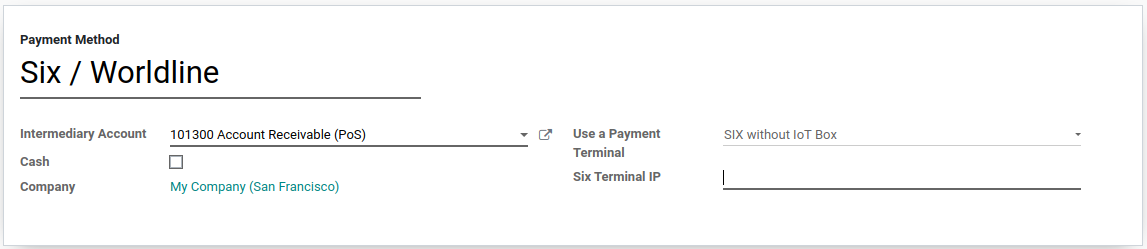
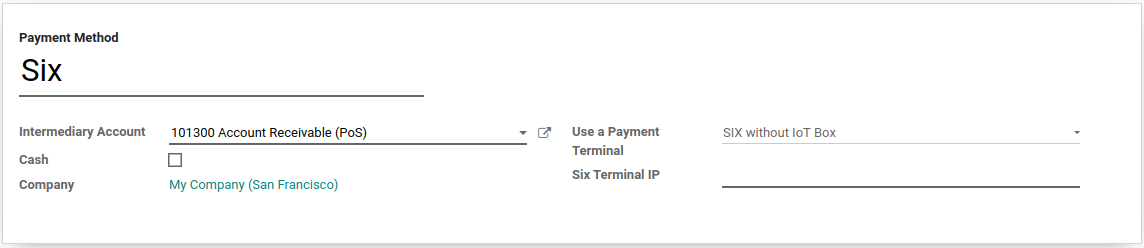
[IMP] Point of Sale: Six >< Worldline
Multiple customers tried to connect Worldline payment terminals, even
though they're not supported, because the documentation was not clear.

diff --git a/point_of_sale/payment/six.rst b/point_of_sale/payment/six.rst
@@ -1,12 +1,15 @@
 ====================================================
-Connect a SIX/Worldline Payment Terminal to your PoS
+Connect a SIX Payment Terminal to your PoS
 ====================================================
 
-Connecting a SIX/Worldline payment terminal allows you to offer a fluid
+Connecting a SIX payment terminal allows you to offer a fluid
 payment flow to your customers and ease the work of your cashiers.
 
-.. note::
-   Please note SIX/Worldine is currently only available for UE customers.
+.. warning::
+   Even though Worldline has recently acquired SIX Payment Services and both
+   companies use Yomani payment terminals, the firmware they run is different.
+   Terminals received from Worldline are therefore not compatible with this
+   integration.
 
 Configuration
 =============
